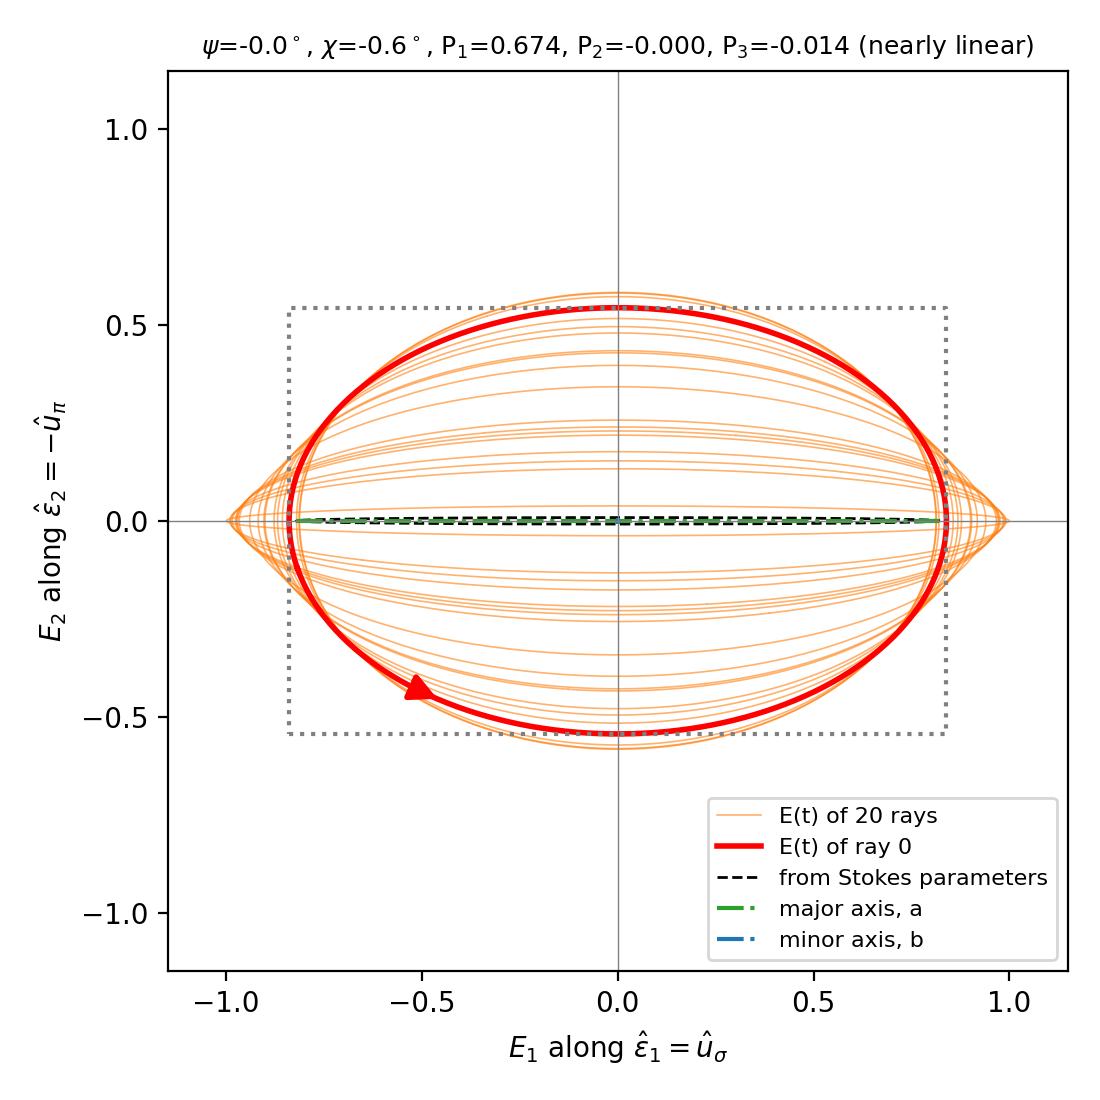
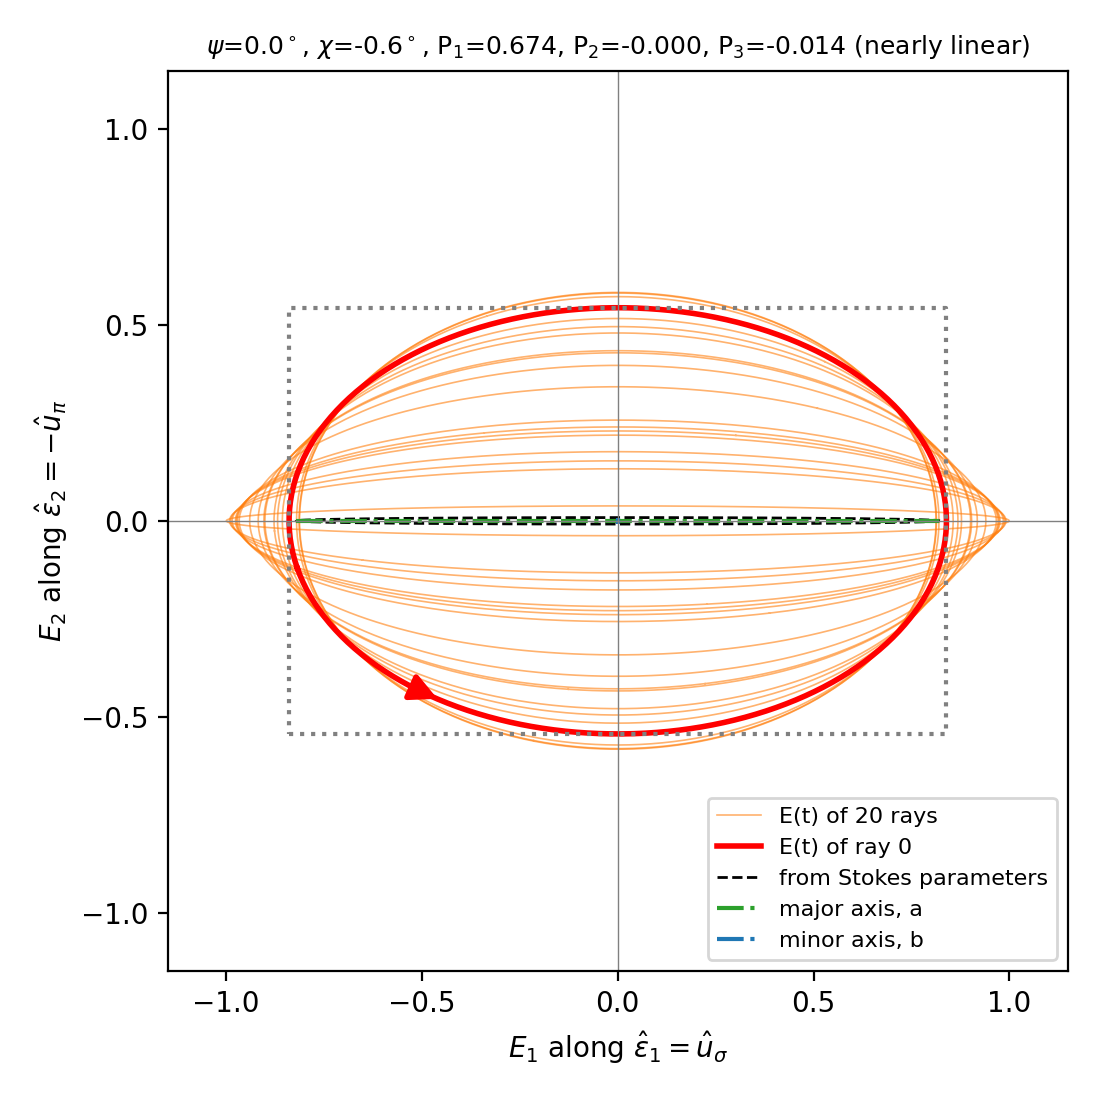
Section 3: polarization ellipse paragraph, notation fixes
- Move the general polarization-ellipse text to a new paragraph before 3.1
  (SHADOW calculation of polarization ellipse), extended with the SHADOW4
  per-ray and beam calculation; 2 psi = arg(S1 + i S2), 0 <= psi < pi.
- Auxiliary amplitude angle of the geometrical source renamed gamma (chi is the
  ellipticity angle); P_k = S_k/S0 defined (Poincare-Stokes parameters).
- Script: psi in [0, pi); bending magnet figure regenerated.

Changed region(s): [[0.1855, 0.0309, 0.9582, 0.0618]]

diff --git a/main.tex b/main.tex
@@ -280,7 +280,7 @@ The degrees of polarization (total, linear and circular) are
 The SHADOW variables can be used with a standard formalism defined in a right-handed frame (with $\hat{x}\times\hat{y}=\hat{k}$, $\hat{k}$ the propagation direction), as defined before, by taking the right-handed basis $(\hat{u}_\sigma, -\hat{u}_\pi, \vec{v})$, i.e., replacing the Jones vector $(\mathcal{E}_\sigma,\mathcal{E}_\pi)^T$ by $(\mathcal{E}_\sigma,-\mathcal{E}_\pi)^T$ (equivalently, adding $\pi$ to $\phi_\pi$). This is how SHADOW4 computes the Stokes parameters. 
 Also, a positive rotation angle measured from $\hat{u}_\sigma$ toward $\hat{u}_\pi$ corresponds to a negative angle in the right-handed frame.
 
-SHADOW4 computes the Stokes parameters of each ray (columns 30 to 33, and the normalized parameters $S_k/S_0$, $k=1,2,3$, in columns 42 to 44) from the $\sigma$ and $\pi$ components of the electric field as:
+SHADOW4 computes the Stokes parameters of each ray (columns 30 to 33, and the normalized parameters $P_k=S_k/S_0$, $k=1,2,3$, in columns 42 to 44; $P_{1,2,3}$ are the Poincar\'e--Stokes parameters of \cite{Detlefs2012}, not to be confused with the polarization degree $P$ of the geometrical source in section~\ref{sec:polarization_shadow}) from the $\sigma$ and $\pi$ components of the electric field as:
 \begin{eqnarray}\label{eq:stokes_columns}
     S_0 &=& |\vec{E}_\sigma|^2 + |\vec{E}_\pi|^2 \quad \text{(column 30)}, \nonumber \\
     S_1 &=& |\vec{E}_\sigma|^2 - |\vec{E}_\pi|^2 \quad \text{(column 31)}, \nonumber \\
@@ -309,6 +309,20 @@ This is done in the geometrical sources by using the {\tt vector\_default\_efiel
 \end{eqnarray}
 with $\times$ the cross product, and  $\hat{u}_x\text{=}(1,0,0)$ the unitary vector along the horizontal direction at the source plane ($x$ axis).
 Note that $\vec{v} \times (\hat{u}_x \times \vec{v}) = \hat{u}_x - (\hat{u}_x\cdot\vec{v})\,\vec{v}$ is the projection of $\hat{u}_x$ onto the plane perpendicular to $\vec{v}$, with modulus $\sqrt{1-v_1^2}$, therefore $\hat{u}_\sigma=\hat{u}_x$ only for rays with $v_1=0$. The second equation is the SHADOW convention of equation~(\ref{eq:upi}).
+
+\paragraph{SHADOW calculation of polarization ellipse.}
+The polarization state of a ray can be visualized with the polarization ellipse \cite{Detlefs2012}: the curve described during one period by the tip of the real electric field in the plane perpendicular to the ray direction. Using the right-handed basis $\hat{\epsilon}_1=\hat{u}_\sigma$, $\hat{\epsilon}_2=-\hat{u}_\pi$ (section~\ref{sec:definitions}), and the components $E_1=\mathcal{E}_\sigma$, $E_2=-\mathcal{E}_\pi$ of the standard Jones vector, the real field is
+\begin{equation}\label{eq:ellipse_field}
+    \mathcal{E}_{j}(\tau)=\Re\left[E_j e^{-i\tau}\right]=|E_j|\cos(\tau-\phi_j), \qquad j=1,2,
+\end{equation}
+with $\tau=\omega t - k z$. The ellipse is drawn in the $(\hat{\epsilon}_1,\hat{\epsilon}_2)$ plane, as seen by an observer looking into the source. The angle $\psi$ between its major axis and $\hat{\epsilon}_1$, and its ellipticity angle $\chi$ ($\tan|\chi|=b/a$, with $a$ and $b$ the semi-axes), are given by the Stokes parameters \cite{Detlefs2012}
+\begin{equation}\label{eq:ellipse_angles}
+    2\psi=\arg(S_1+iS_2), \qquad \sin(2\chi)=\frac{S_3}{S_0},
+\end{equation}
+i.e., $\tan(2\psi)=S_2/S_1$, with the quadrant given by the signs of $S_1$ and $S_2$ (taking the argument in $[0,2\pi)$, so that $0\le\psi<\pi$), and $-\pi/4\le\chi\le\pi/4$. The semi-axes verify $a^2+b^2=S_0$, therefore $a=\sqrt{S_0}\cos\chi$ and $b=\sqrt{S_0}|\sin\chi|$. The field rotates counter-clockwise (left-handed polarization) for $\chi>0$ ($S_3>0$), and clockwise (right-handed) for $\chi<0$.
+
+In SHADOW4, the ellipse of each ray can be obtained either by tracing equation~(\ref{eq:ellipse_field}) with the standard Jones vector of the ray ({\tt S4Beam.get\_jones\_components} with {\tt use\_standard=1}), or from its Stokes parameters (columns 30 to 33) with equation~(\ref{eq:ellipse_angles}). Every ray is fully polarized, and therefore has its own ellipse. For a beam, the ellipse of the polarized part is obtained in the same way from the Stokes parameters summed over the (good) rays, using the polarized intensity $\sqrt{S_1^2+S_2^2+S_3^2}=\mathrm{DOP}\,S_0$ instead of $S_0$ for the semi-axes. When the rays have different polarizations, this ellipse is smaller than the ellipses of the rays (DOP$<1$), and it is not an average of them. As for the sum of the Stokes parameters, this assumes that the $\hat{u}_\sigma$ directions of the rays are approximately parallel.
+These calculations are done in the script {\tt shadow4\_polarization\_ellipse.py}, used for the examples in Figs.~\ref{fig:ellipse_geometrical} and \ref{fig:ellipse_bm}.
 
 
 \subsection{Polarization in SHADOW's geometrical sources}
@@ -341,11 +355,11 @@ with $P\in[0,1]$. These expressions verify, as expected, $|\vec{E}_\sigma|^2 + |
 \end{equation}
 This is a non-standard definition of the polarization degree: it is defined with the amplitudes and not with the intensities, and it is not the degree of polarization DOP of equation~(\ref{eq:dop}). $P=1$ gives a pure $\sigma$ field, $P=0$ a pure $\pi$ field, and $P=0.5$ equal amplitudes.
 
-The ratio of amplitudes in equation~(\ref{eq:Pdef}) can also be expressed with an auxiliary angle $\chi\in[0,90^\circ]$, defined by $\tan\chi=|\vec{E}_\pi|/|\vec{E}_\sigma|=(1-P)/P$, i.e.,
+The ratio of amplitudes in equation~(\ref{eq:Pdef}) can also be expressed with an auxiliary angle $\gamma\in[0,90^\circ]$, defined by $\tan\gamma=|\vec{E}_\pi|/|\vec{E}_\sigma|=(1-P)/P$, i.e.,
 \begin{equation}
-   P = \frac{\cos \chi}{\cos \chi + \sin \chi}.
+   P = \frac{\cos \gamma}{\cos \gamma + \sin \gamma}.
 \end{equation}
-Note that $\chi$ is not used in the code (only $P$ and $\Phi$ are inputs), and that it should not be confused with $\Phi$. For linearly polarized light ($\Phi=0$), $\chi$ is the angle between the electric vector $\vec{E}$ and $\hat{u}_\sigma$, measured toward $\hat{u}_\pi$. For other values of $\Phi$, $\chi$ only gives the ratio of amplitudes, and not the orientation of the polarization ellipse.
+Note that $\gamma$ is not used in the code (only $P$ and $\Phi$ are inputs), and that it should not be confused with $\Phi$, nor with the angles $\psi$ and $\chi$ of the polarization ellipse [equation~(\ref{eq:ellipse_angles})]. For linearly polarized light ($\Phi=0$), $\gamma$ is the angle between the electric vector $\vec{E}$ and $\hat{u}_\sigma$, measured toward $\hat{u}_\pi$. For other values of $\Phi$, $\gamma$ only gives the ratio of amplitudes, and not the orientation of the polarization ellipse.
 
 \paragraph{Examples.}
 Some combinations of the inputs $(P, \Phi)$ are listed in Table~\ref{tab:source_polarization}, with the corresponding Stokes parameters calculated with equation~(\ref{eq:stokes_from_P}).
@@ -386,18 +400,7 @@ For example, $P=0.5$ and $\Phi=90^\circ$ give $S_3=-1$ (RCP), in agreement with 
 
 Every ray is fully polarized (DOP=1). The random phase $\phi_\sigma$ of an incoherent beam does not change the Stokes parameters of a ray, which depend only on $P$ and $\Phi$. A partially polarized beam is described by an ensemble of rays with different $(P,\Phi)$, and its Stokes parameters are the sums over the rays. Note that the Stokes parameters of each ray are defined in its own $(\hat{u}_\sigma,\hat{u}_\pi)$ frame, therefore this sum is exact only if the $\hat{u}_\sigma$ directions of all rays are parallel. This is approximately the case at the source (the small differences come from the ray divergences), but not necessarily after beamline elements where the scattering plane changes from ray to ray (e.g., curved surfaces).
 
-\paragraph{Polarization ellipse.}
-The polarization state of a ray can be visualized with the polarization ellipse \cite{Detlefs2012}: the curve described during one period by the tip of the real electric field in the plane perpendicular to the ray direction. Using the right-handed basis $\hat{\epsilon}_1=\hat{u}_\sigma$, $\hat{\epsilon}_2=-\hat{u}_\pi$ (section~\ref{sec:definitions}), and the components $E_1=\mathcal{E}_\sigma$, $E_2=-\mathcal{E}_\pi$ of the standard Jones vector, the real field is
-\begin{equation}\label{eq:ellipse_field}
-    \mathcal{E}_{j}(\tau)=\Re\left[E_j e^{-i\tau}\right]=|E_j|\cos(\tau-\phi_j), \qquad j=1,2,
-\end{equation}
-with $\tau=\omega t - k z$. The ellipse is seen in this plane by an observer looking into the source. Its major axis forms an angle $\psi$ with $\hat{\epsilon}_1$, and its ellipticity angle $\chi$ ($\tan|\chi|=b/a$, with $a$ and $b$ the semi-axes) are given by the Stokes parameters \cite{Detlefs2012}
-\begin{equation}\label{eq:ellipse_angles}
-    \tan(2\psi)=\frac{S_2}{S_1}, \qquad \sin(2\chi)=\frac{S_3}{S_0},
-\end{equation}
-with $a^2+b^2=S_0$. The field rotates counter-clockwise (left-handed polarization) for $\chi>0$ ($S_3>0$), and clockwise (right-handed) for $\chi<0$.
-For a beam, the ellipse of the polarized part is obtained in the same way from the Stokes parameters summed over the rays, with $\sqrt{S_1^2+S_2^2+S_3^2}=\mathrm{DOP}\,S_0$ instead of $S_0$.
-
+\paragraph{Polarization ellipse of the geometrical source.}
 Fig.~\ref{fig:ellipse_geometrical} shows the example of Fig.~1 in \cite{Detlefs2012}, $\psi=\chi=30^\circ$, created with a geometrical source. The corresponding Stokes parameters are $(S_1,S_2,S_3)=(0.250, 0.433, 0.866)$, and equation~(\ref{eq:P_from_stokes}) gives the source inputs $P=0.5635$ and $\Phi=-116.57^\circ$. All the rays of a geometrical source have the same polarization, so they have the same ellipse, and the ellipse obtained from the Stokes parameters of the beam coincides with them (DOP=1).
 
 \begin{figure}

diff --git a/scripts/shadow4_polarization_ellipse.py b/scripts/shadow4_polarization_ellipse.py
@@ -40,7 +40,8 @@ def ellipse_from_beam(beam):
     """Stokes parameters summed over the good rays, and the ellipse of the polarized part."""
     S0, S1, S2, S3 = [beam.get_column(col, nolost=1).sum() for col in [30, 31, 32, 33]]
     dop = numpy.sqrt(S1 ** 2 + S2 ** 2 + S3 ** 2) / S0
-    psi = 0.5 * numpy.arctan2(S2, S1)                    # azimuth of the major axis from e1
+    psi = numpy.mod(0.5 * numpy.arctan2(S2, S1), numpy.pi)     # azimuth of the major axis from e1, [0, pi)
+    if numpy.isclose(psi, numpy.pi): psi = 0.0                  # psi = pi - epsilon is the same direction as 0
     chi = 0.5 * numpy.arcsin(S3 / (dop * S0))            # ellipticity angle, > 0 for left-handed
     intensity = dop * S0                                  # polarized intensity
     a = numpy.sqrt(intensity) * numpy.cos(chi)            # semi-axes
